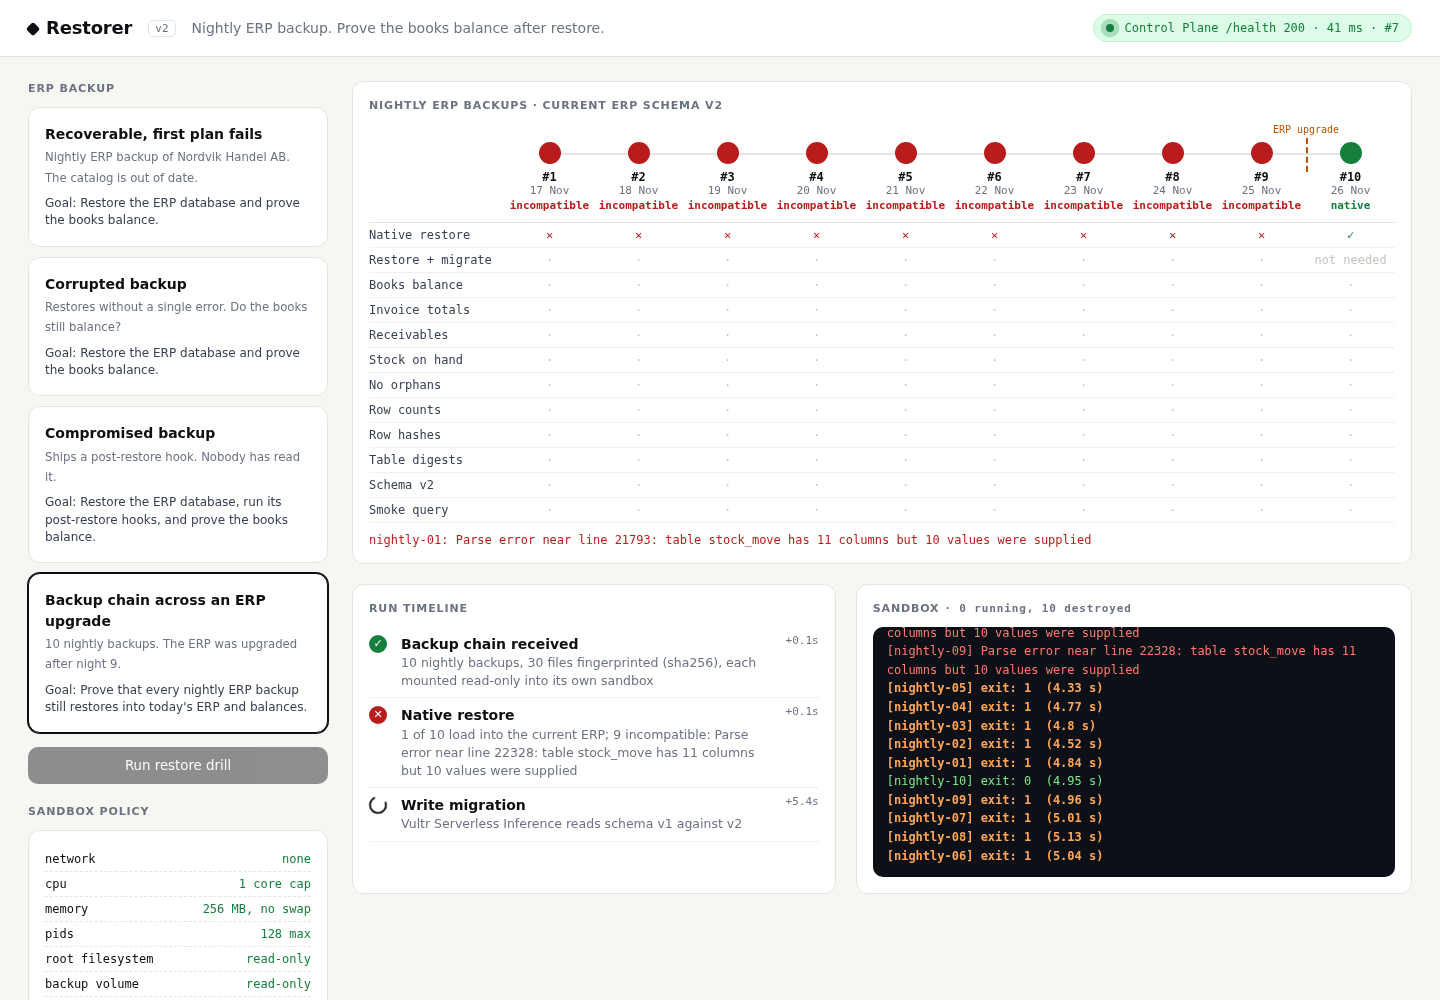
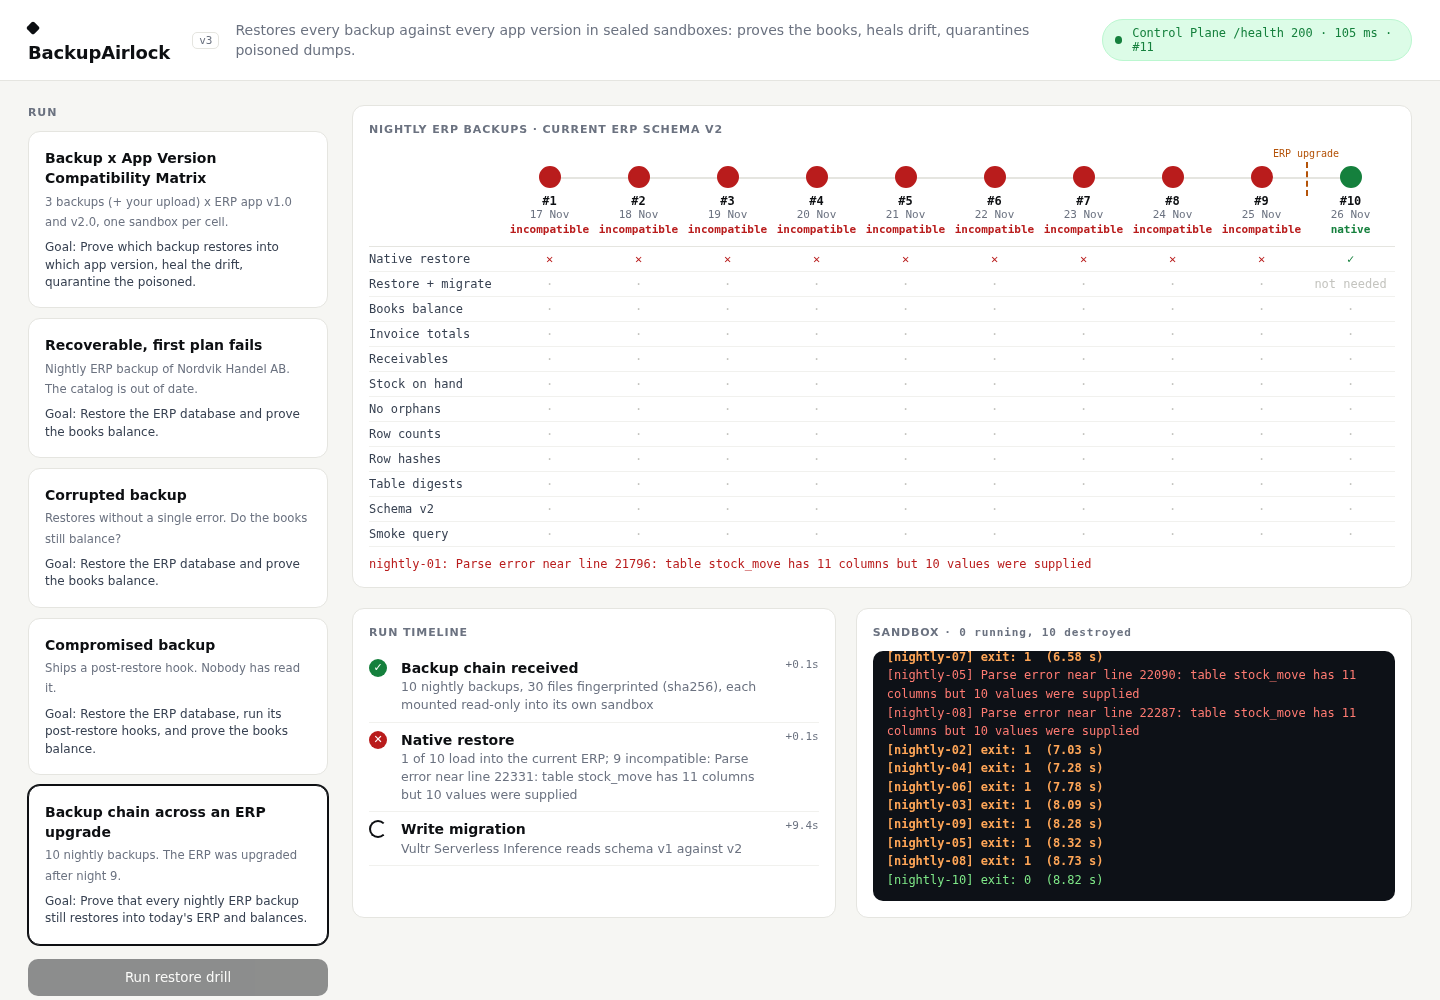
Runtime API: restored_into (test instance)

diff --git a/static/index.html b/static/index.html
@@ -123,7 +123,7 @@ details.grp summary h3 b{color:var(--ok);font-weight:400}
   .matrix{grid-template-columns:1fr 1fr}
   .matrix > .colhead{display:none}
   .cell .app{display:block}
-  .cell .d{white-space:normal}
+  .cell .d{white-space:normal;display:-webkit-box;-webkit-line-clamp:3;-webkit-box-orient:vertical}
   .bk{grid-column:1 / 3;padding:12px 0 0}
   .cell{margin:8px 0 4px}
   .panel{margin-top:24px;padding:16px}
@@ -254,7 +254,8 @@ function rgView() {
     actions: rg.sel && rg.details[rg.sel.b]?.certificate ? `<a class="btn" href="#cert">Certificate</a>` : "",
     cols: rg.versions.map(v => ({id: v, label: `App ${v}`})),
     rows: ss.map(b => ({
-      id: b.id, name: b.file, verdict: b.status,
+      // The timestamp prefix is in the sub line already; the suffix is what tells the backups apart.
+      id: b.id, name: b.file.replace(/^\d{8}T\d{6}Z[-_]/, ""), full: b.file, verdict: b.status,
       sub: [b.created_at && clock(b.created_at), b.schema_version != null && `schema v${b.schema_version}`, mb(b.bytes)].filter(Boolean).join(" · "),
       cells: Object.fromEntries(rg.versions.map(v => { const c = rgCell(b.id, v); return [v, {state: c.state,
         line: cellLine(c.state, c.reason, c.elapsed_s, b.status === "running")}]; })),
@@ -422,7 +423,7 @@ function drPanel() {
   if (dr.live) {
     const L = dr.live, bid = L.backups.find(x => x.file === b)?.id, aid = L.apps.find(x => x.title === v)?.id;
     const c = L.cells[`${bid}|${aid}`] || {state: "running"};
-    const evs = L.events.filter(e => e.backup === bid && e.app === aid && e.type !== "cpu" && e.type !== "matrix");
+    const evs = L.events.filter(e => e.backup === bid && e.app === aid && e.type !== "cpu" && e.type !== "matrix" && !(e.type === "log" && e.stream === "stdout"));
     const pol = evs.filter(e => e.type === "policy");
     return `<div class="panel">${head}<div style="margin-top:8px">${mark(c.state === "drift" && c.bridge ? "healing" : c.state)}</div>
       ${targetLine(null, evs.find(e => e.type === "sandbox")?.name)}
@@ -556,7 +557,7 @@ function draw() {
   const sel = V.sel;
   $("#body").innerHTML = `<div class="main"><div>
     <div class="matrix"><div class="colhead corner">Backup</div>${V.cols.map(c => `<div class="colhead">${esc(c.label)}</div>`).join("")}
-    ${V.rows.map(r => `<div class="row"><div class="bk"><div class="name" title="${esc(r.name)}">${esc(r.name)}</div><div class="sub">${esc(r.sub)}</div>${verdictLine(r.verdict)}</div>
+    ${V.rows.map(r => `<div class="row"><div class="bk"><div class="name" title="${esc(r.full || r.name)}">${esc(r.name)}</div><div class="sub">${esc(r.sub)}</div>${verdictLine(r.verdict)}</div>
       ${V.cols.map(c => { const x = r.cells[c.id] || {state: "not_run", line: ""};
         return `<button class="cell" data-b="${esc(r.id)}" data-v="${esc(c.id)}" aria-pressed="${!!sel && sel.b === r.id && sel.v === c.id}">
           <div class="app">${esc(c.label)}</div>${mark(x.state)}<div class="d" title="${esc(x.line)}">${esc(x.line)}</div></button>`; }).join("")}</div>`).join("")}

diff --git a/design/tools/shoot_v4.js b/design/tools/shoot_v4.js
@@ -29,5 +29,20 @@ const [base, dir] = process.argv.slice(2);
       await p.close();
     }
   }
+  // Live drill: press Run drill through the public page, shoot mid-run and when it is sealed.
+  if (process.env.LIVE) {
+    const p = await browser.newPage({ viewport: { width: 1440, height: 900 } });
+    p.on('pageerror', e => console.log('live pageerror', e.message));
+    await p.goto(base + '?view=drill');
+    await p.waitForSelector('#run');
+    await p.click('#run');
+    await p.waitForTimeout(7000);
+    await p.screenshot({ path: `${dir}/drill-live-1440.png`, fullPage: true });
+    await p.waitForFunction(() => !document.querySelector('#run')?.disabled, null, { timeout: 90000 });
+    await p.waitForTimeout(1500);
+    await p.screenshot({ path: `${dir}/drill-sealed-1440.png`, fullPage: true });
+    console.log('live headline:', await p.locator('#headline').textContent());
+    await p.close();
+  }
   await browser.close();
 })();

diff --git a/README.md b/README.md
@@ -57,7 +57,7 @@ Fixtures (`fixtures/build.py`, a seeded day-by-day simulation of the company's y
 | `apps/suite.py` | the business-logic suite run against the booted app |
 | `sandbox.py` | hardened Docker runner, live CPU/memory from the container cgroup |
 | `verify.py` | the deterministic checks: five on the books, five against the manifest |
-| `static/index.html` | the single-page UI (relative paths, works under any prefix) |
+| `static/index.html` | the console (relative paths, works under any prefix): tabs Backups (RestoreGuard runtime via `/rg/*`) and Drill; checklist design/SPEC-CHECKLIST.md |
 | `fixtures/build.py` | simulates the ERP, builds the matrix dumps + the four drill fixtures + their manifests, incl. the reference v1 to v2 migration |
 | `sandbox.Dockerfile` | sandbox image `restorer-sandbox:2` (alpine + sqlite, python3, curl, honey `/root/.env`) |
 | `install.sh` | one-command install on a Vultr VM |
@@ -95,11 +95,11 @@ backups and proves each one on every app version. JSON only; paths are relative 
 | `GET /api/stream` | SSE, one JSON event per `data:` line (below) |
 
 `status` of a backup: `queued`, `running`, `dr_ready` (restorable on at least one app version), `not_restorable`, `quarantined`,
-`failed` (unreadable manifest; never ran). `state` of a cell: `running`, `native` (restored, app runs on it as is, including the
+`failed` (unreadable manifest; never ran). Every restore goes into a throwaway test instance (own Postgres container, no network, the app version under test inside it), never into production; the certificate names it per app version (`restored_into`). `state` of a cell: `running`, `native` (restored, app runs on it as is, including the
 app's own forward migrations), `healed` (a GLM bridge migration made it run, checks pass), `failed`, `quarantined` (containment
 signal or static-scan finding), `not_run`.
 
-A cell: `{cell: "<backup>@<app_version>", backup, app_version, state, reason, checks: [{check, pass, detail}], timings: {<step>: s},
+A cell: `{cell: "<backup>@<app_version>", backup, app_version, restored_into: {instance: "test instance rg-…", database, app, dsn}, state, reason, checks: [{check, pass, detail}], timings: {<step>: s},
 signals: ["network"|"rootfs"|"honey"|"memory"|"timeout"], static_scan: [{line, text, why}], bridges: [{name, round, sha256, sql,
 changes, failure?}], llm_calls: [{purpose, model, latency_s, tokens, fallback}], elapsed_s}`.
 
